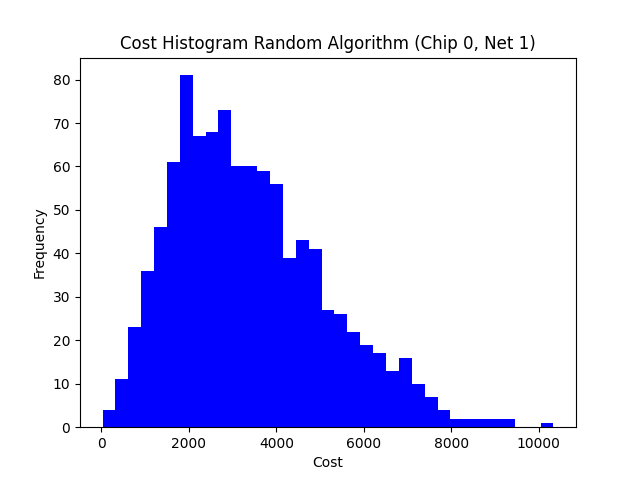
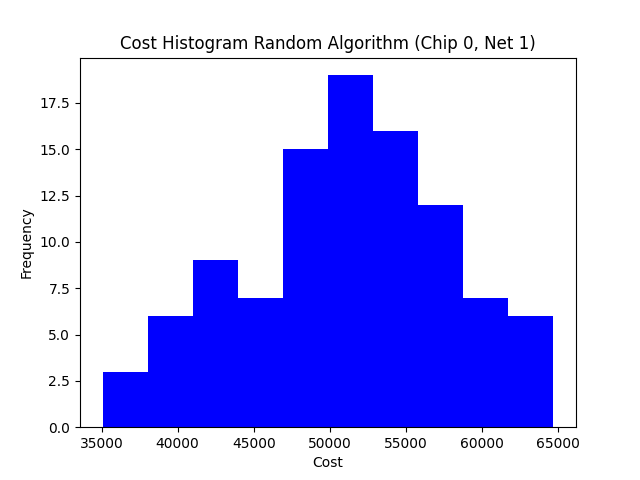
minor changes

diff --git a/solution_random_distrib.py b/solution_random_distrib.py
@@ -20,7 +20,7 @@ if len(argv) == 3:
     net_id = argv[2]
 
 
-iterations = 0
+iterations = 1000
 total_costs = []
 
 for i in range(iterations):
@@ -32,7 +32,7 @@ for i in range(iterations):
     total_costs.append(cost)
 
 print(total_costs)
-total_costs = [38739, 45947, 40217, 45660, 42362, 55033, 41994, 54411, 60405, 40858, 40234, 46870, 60793, 56239, 52909, 50168, 56811, 49266, 52919, 52919, 51697, 55929, 57161, 61979, 57735, 49877, 52009, 55911, 64679, 46291, 43203, 54409, 48091, 47471, 35066, 49646, 46931, 49899, 49235, 58622, 43208, 47739, 51709, 51697, 48964, 49933, 54102, 51389, 55912, 49911, 56497, 51420, 57769, 45083, 52304, 64395, 41155, 56221, 52008, 60167, 53451, 42040, 49615, 47739, 52920, 48663, 55031, 38415, 57454, 55035, 55307, 63775, 62899, 59905, 35697, 43555, 47465, 50801, 43238, 54698, 50473, 61651, 37483, 39276, 46248, 55323, 52310, 60754, 52629, 49620, 50851, 54169, 50195, 55011, 62610, 47429, 59255, 48971, 44167, 41425]
+# total_costs = [38739, 45947, 40217, 45660, 42362, 55033, 41994, 54411, 60405, 40858, 40234, 46870, 60793, 56239, 52909, 50168, 56811, 49266, 52919, 52919, 51697, 55929, 57161, 61979, 57735, 49877, 52009, 55911, 64679, 46291, 43203, 54409, 48091, 47471, 35066, 49646, 46931, 49899, 49235, 58622, 43208, 47739, 51709, 51697, 48964, 49933, 54102, 51389, 55912, 49911, 56497, 51420, 57769, 45083, 52304, 64395, 41155, 56221, 52008, 60167, 53451, 42040, 49615, 47739, 52920, 48663, 55031, 38415, 57454, 55035, 55307, 63775, 62899, 59905, 35697, 43555, 47465, 50801, 43238, 54698, 50473, 61651, 37483, 39276, 46248, 55323, 52310, 60754, 52629, 49620, 50851, 54169, 50195, 55011, 62610, 47429, 59255, 48971, 44167, 41425]
 
 plt.title(f"Cost Histogram Random Algorithm (Chip {chip_id}, Net {net_id})")
 plt.hist(total_costs, color='blue', bins=10)

diff --git a/src/algorithms/greed.py b/src/algorithms/greed.py
@@ -144,7 +144,7 @@ class Greed:
                         continue
 
                     # if occupied by wire, and we do not allow short circuit, we continue
-                    if not allow_short_circuit and occupant and "GATE" not in occupant:
+                    if not allow_short_circuit and len(occupant) > 0 and "GATE" not in occupant:
                         continue
 
                     visited.add(neighbour)
@@ -158,7 +158,7 @@ class Greed:
         """Checks if wiresegment causes a collision in chip"""
 
         (nx, ny, nz) = neighbour
-        neighbour_occupancy = chip.occupancy[nx][ny][nz] 
+        neighbour_occupancy = chip.occupancy[nx][ny][nz]
 
         (cx, cy, cz) = current
         current_occupancy = chip.occupancy[cx][cy][cz] 
@@ -181,10 +181,7 @@ class Greed:
         # if match in wire_id without gates, we have wirecollison 
         shared_wire = occupant_n_no_gate & occupant_c_no_gate
 
-        if shared_wire:
-            return True
-
-        return False
+        return len(shared_wire) > 0
         
     @staticmethod    
     def get_neighbours(chip: 'Chip', coord: Coords_3D) -> list[Coords_3D]:

diff --git a/src/classes/chip.py b/src/classes/chip.py
@@ -59,7 +59,7 @@ class Chip:
         self.grid_shape = (self.grid_size_x, self.grid_size_y, self.grid_size_z)
 
         # initate occupancy grid self.occupancy[x][y][z] is None for free item
-        self.occupancy = [[[set() for _ in range(self.grid_size_z)] 
+        self.occupancy: list[list[list[set]]] = [[[set() for _ in range(self.grid_size_z)] 
                            for _ in range(self.grid_size_y)]
                            for _ in range(self.grid_size_x)
                            ]
